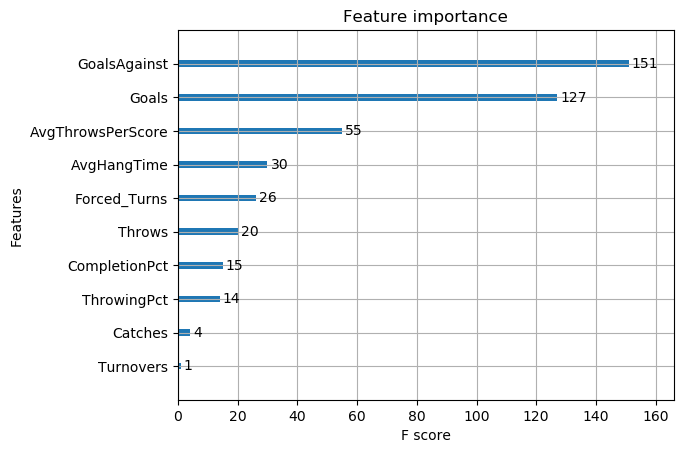
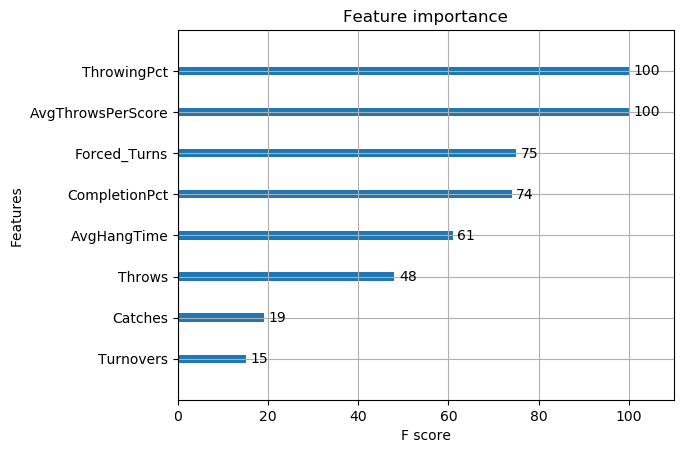
Excluding goals and goals_against columns for xgboost model

diff --git a/code/xgboost_prediction.py b/code/xgboost_prediction.py
@@ -10,7 +10,7 @@ def main():
     df = pd.read_csv('/home/twidis/ultianalytics/data/combined_data.csv');
 
     # split into features and values
-    X = df.iloc[:,2:13];
+    X = df.iloc[:,4:13];
     Y = df.iloc[:,13];
 
     # split into training and test datasets
